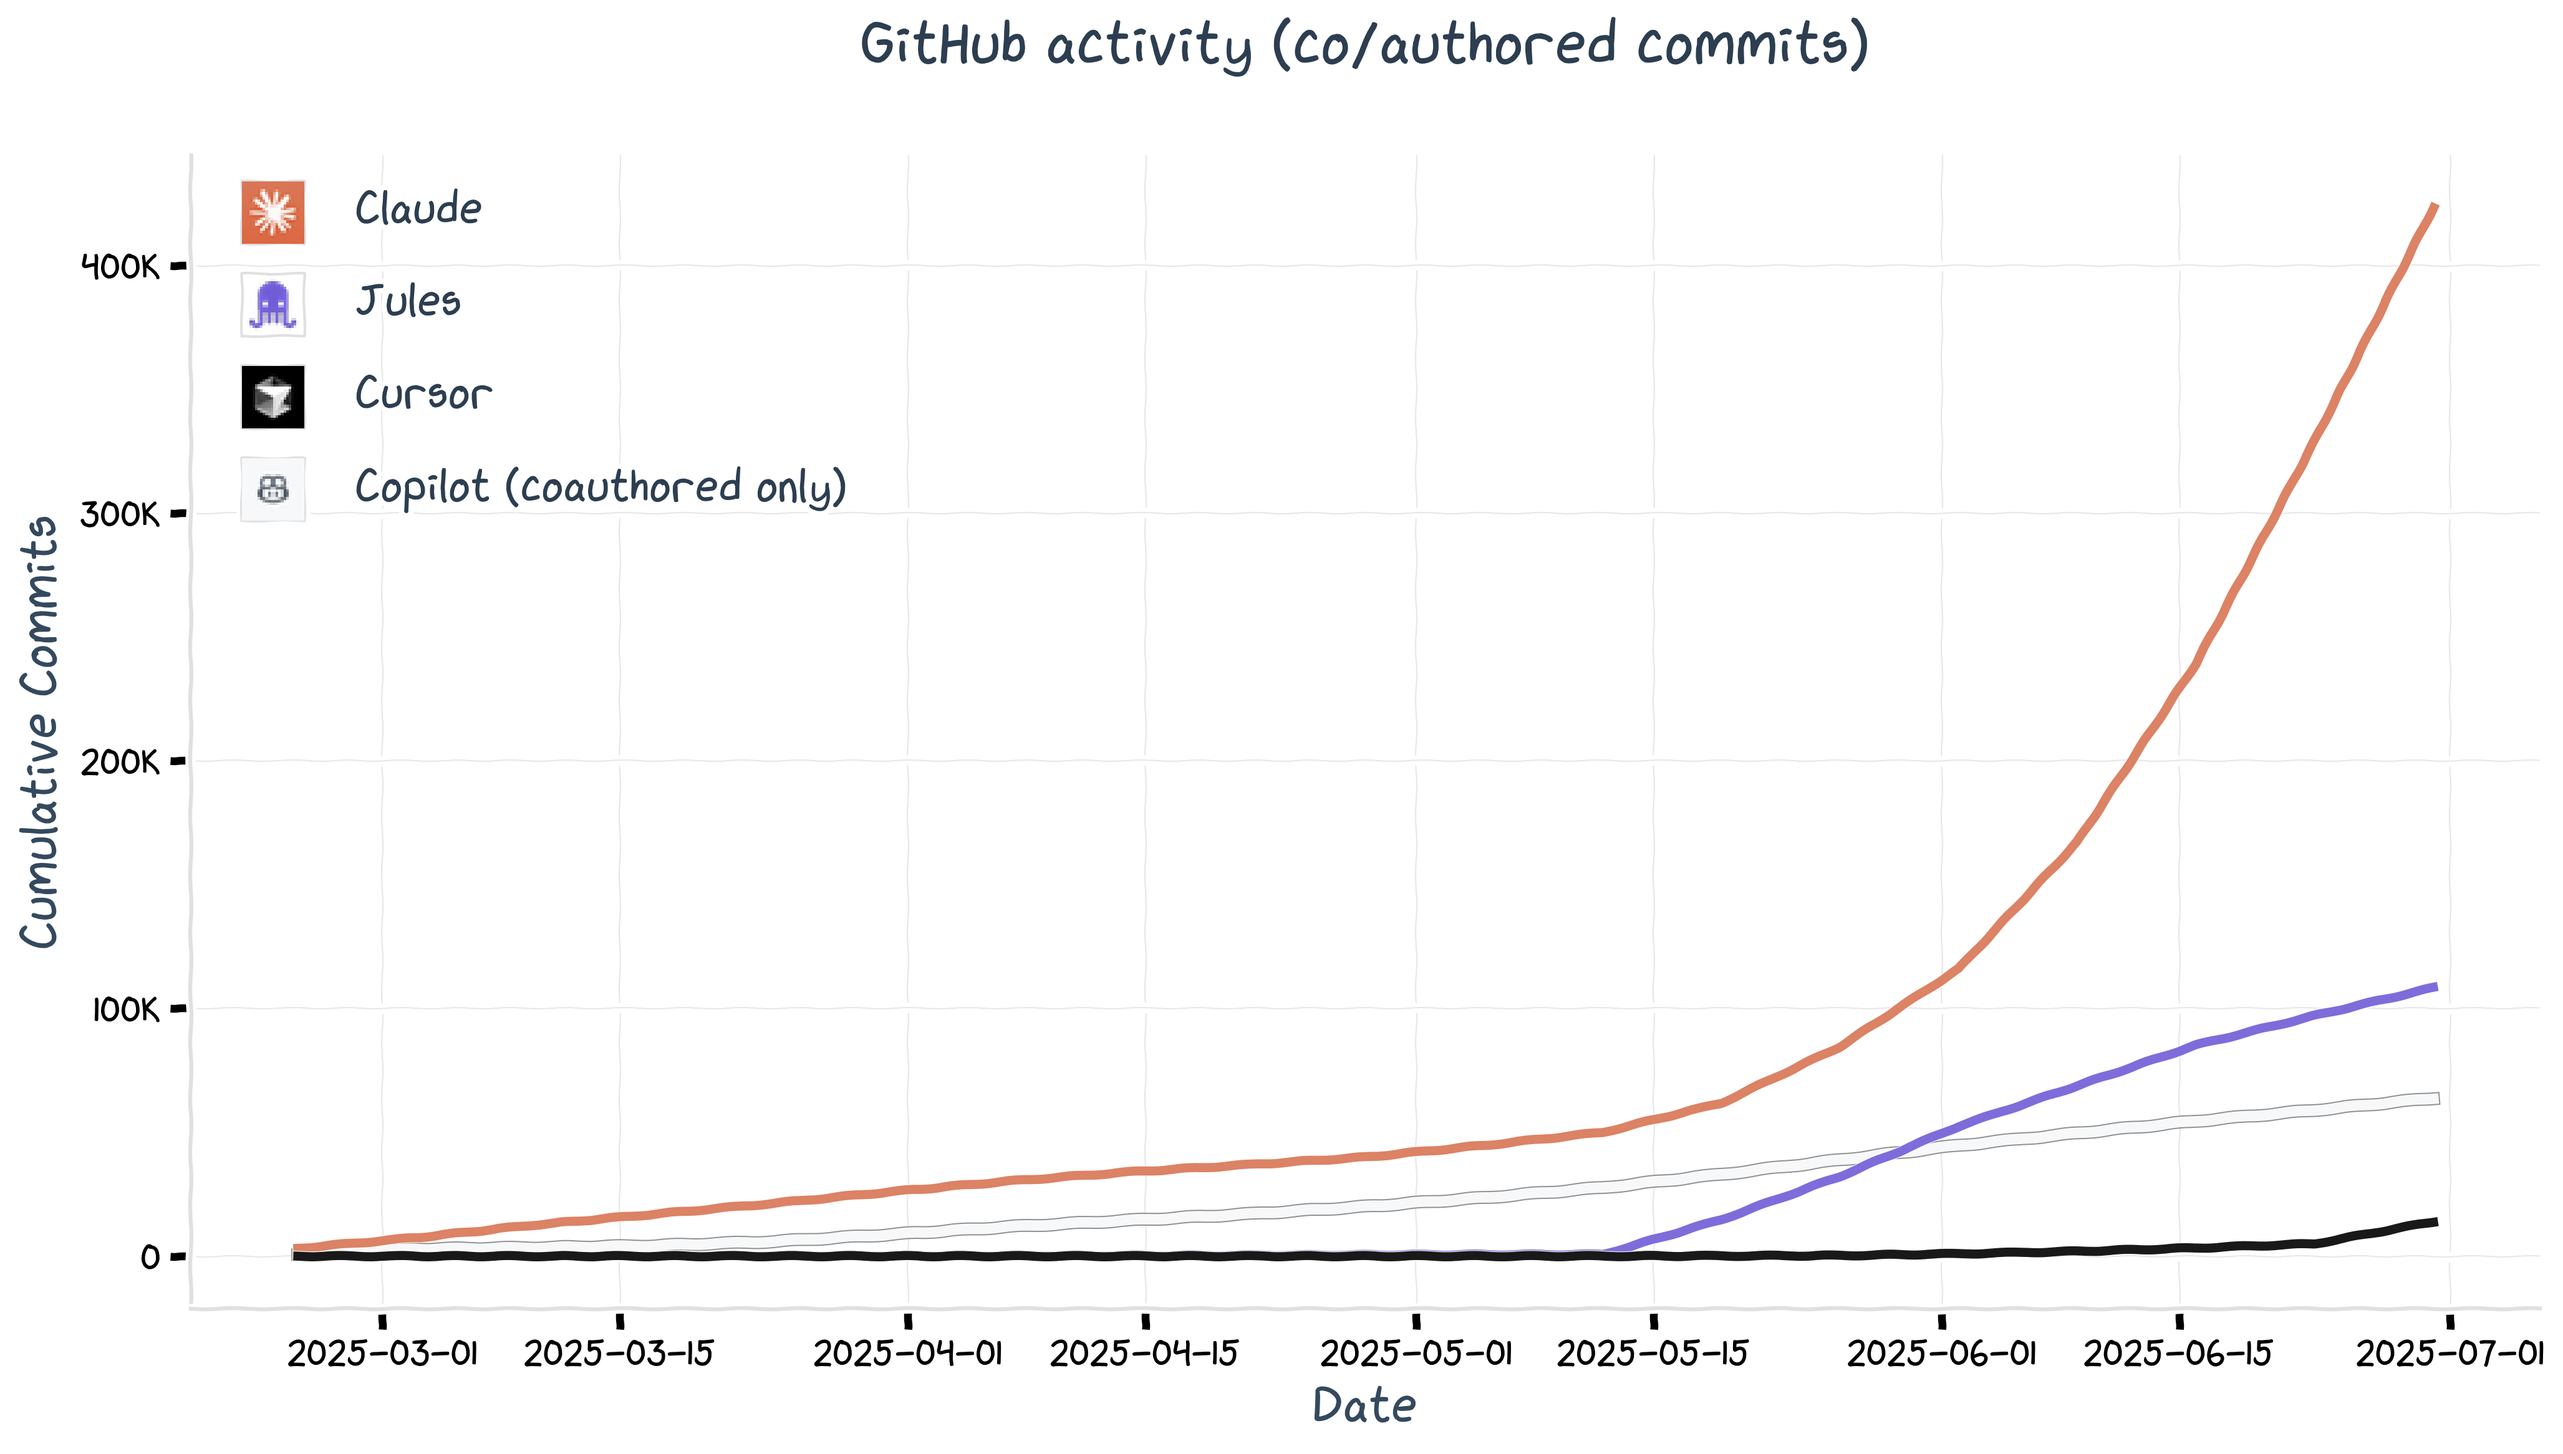
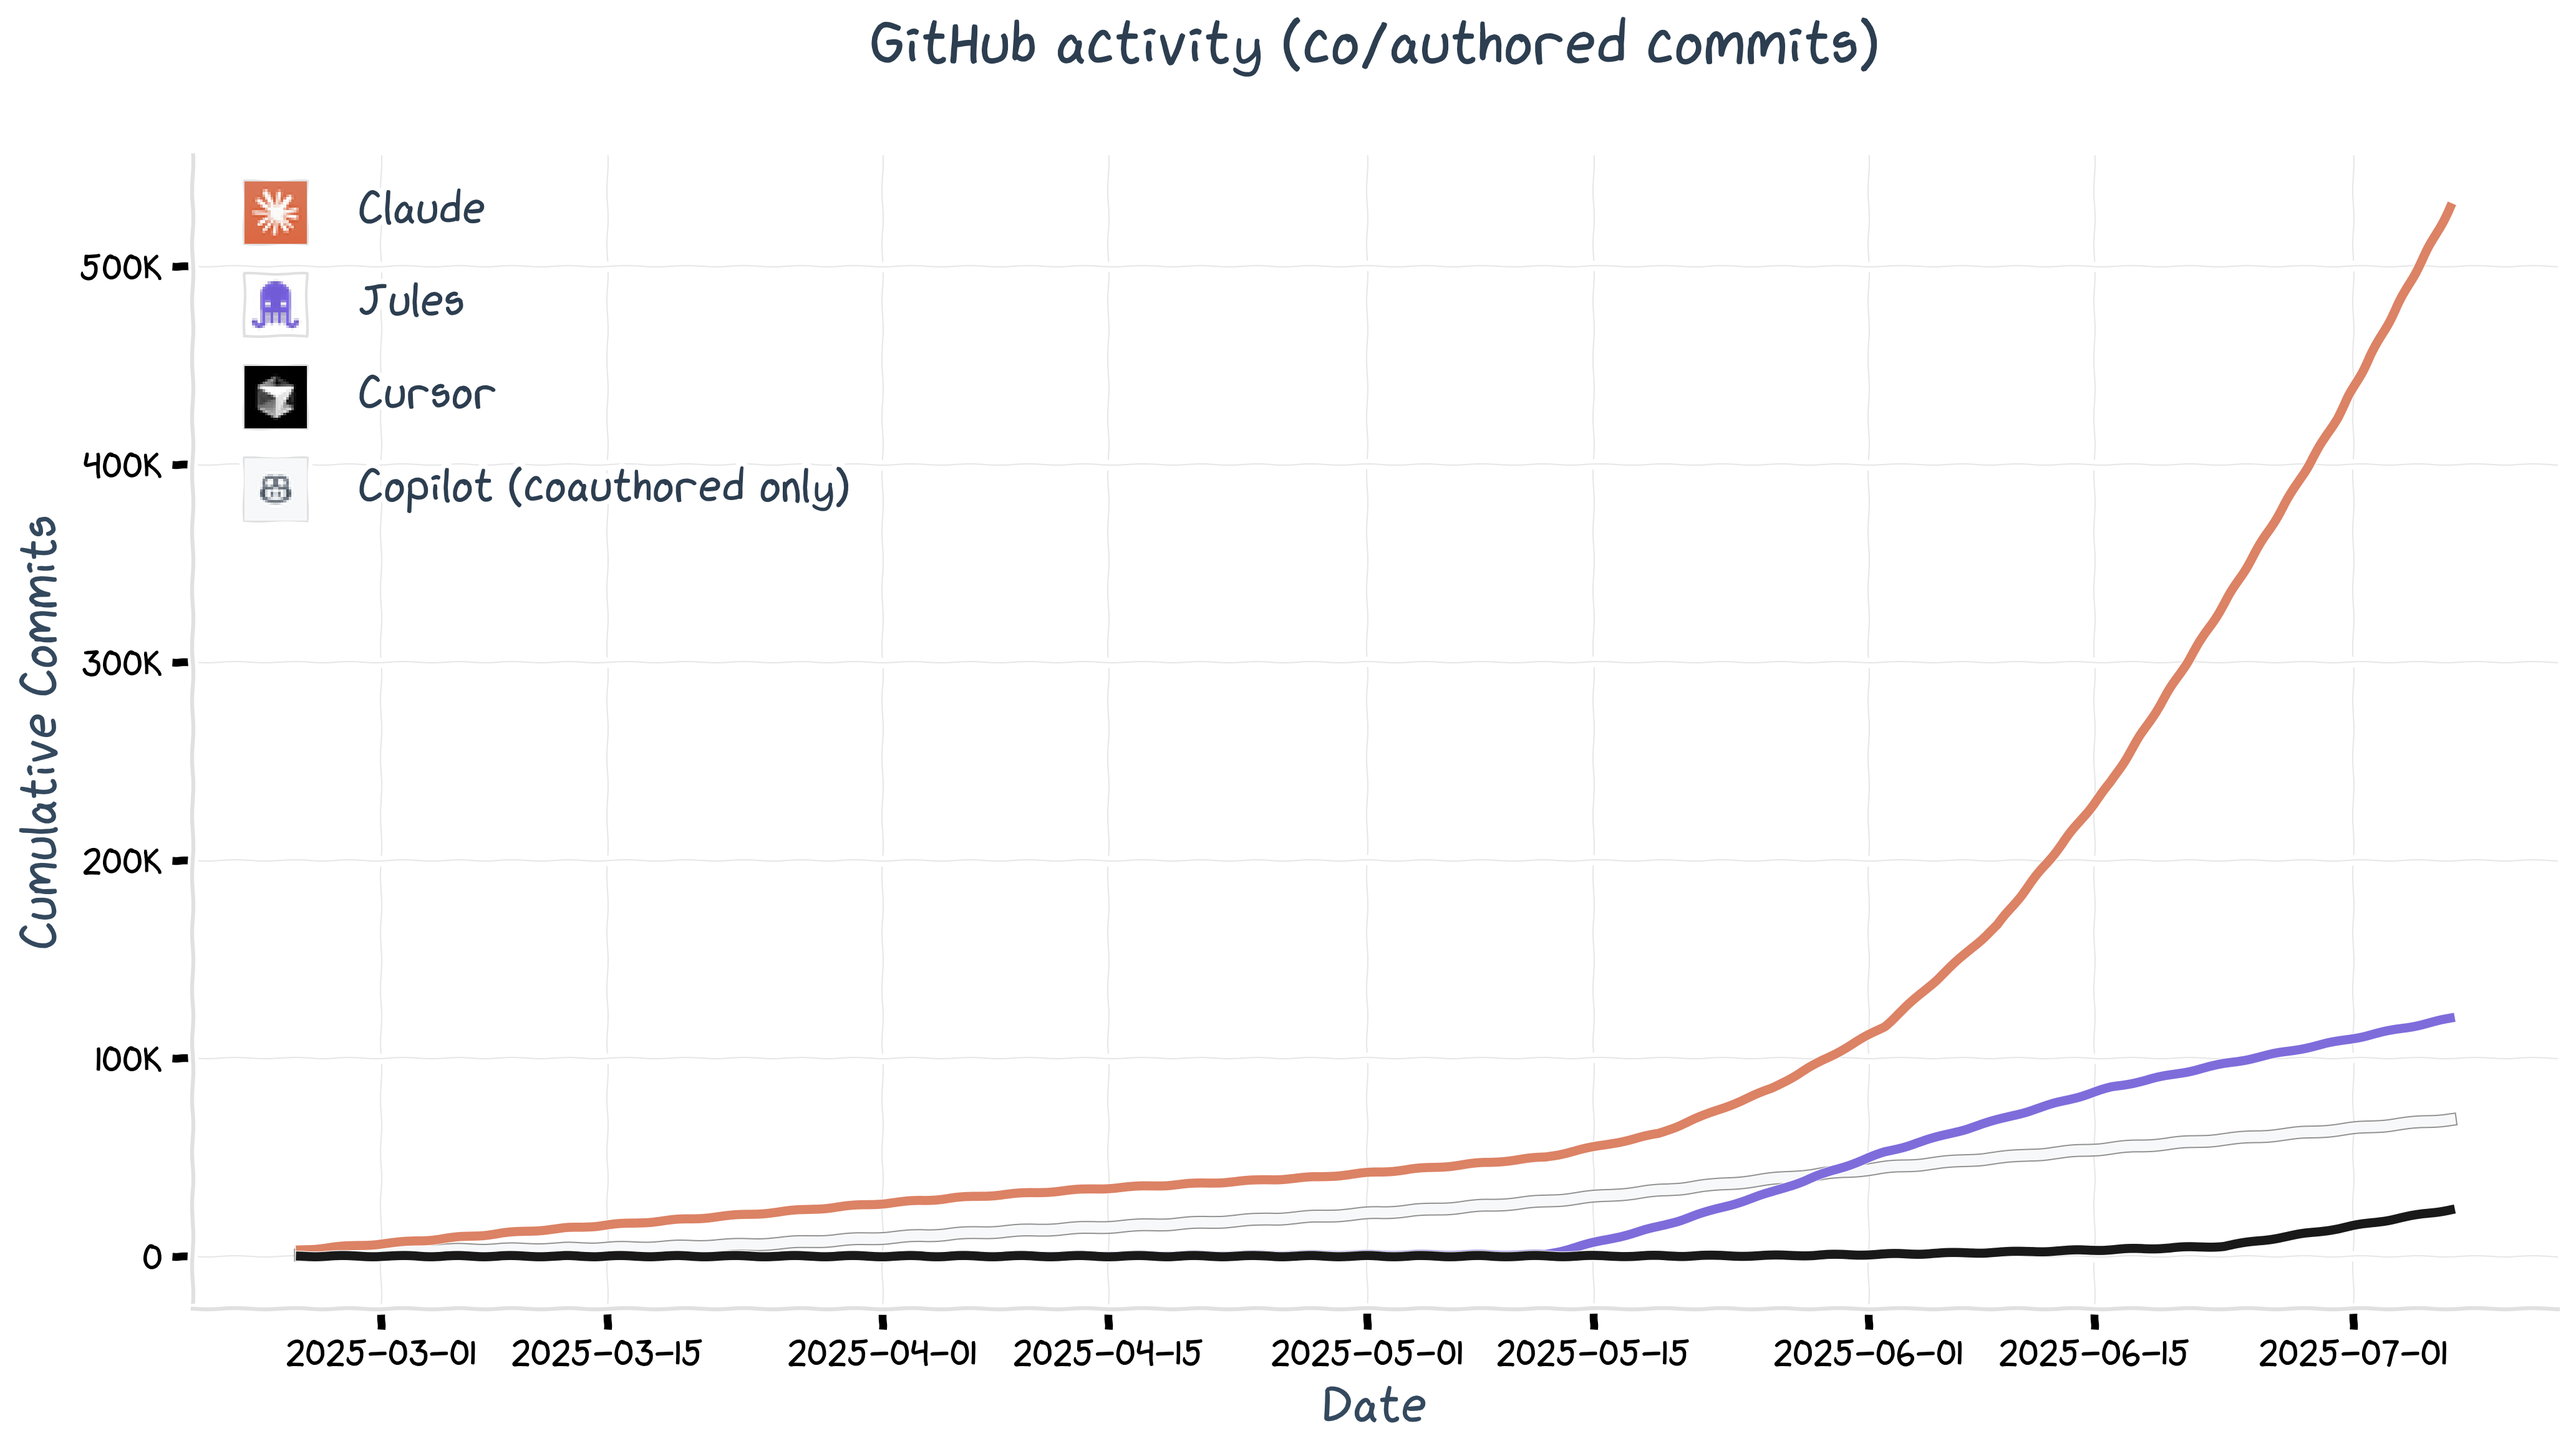
fix: set more recent end date

diff --git a/plot.py b/plot.py
@@ -90,7 +90,7 @@ def plot_weekly_commits(data, save_path="plots/weekly_commits_chart.png"):
     ax.spines['bottom'].set_color('#e0e0e0')
     
     # Fixed end date for consistent comparison
-    min_end_date = datetime(2025, 7, 8)
+    min_end_date = datetime(2025, 7, 14)
     print(f"Using fixed end date for comparison: {min_end_date.strftime('%Y-%m-%d')}")
     
     max_commits = 0
